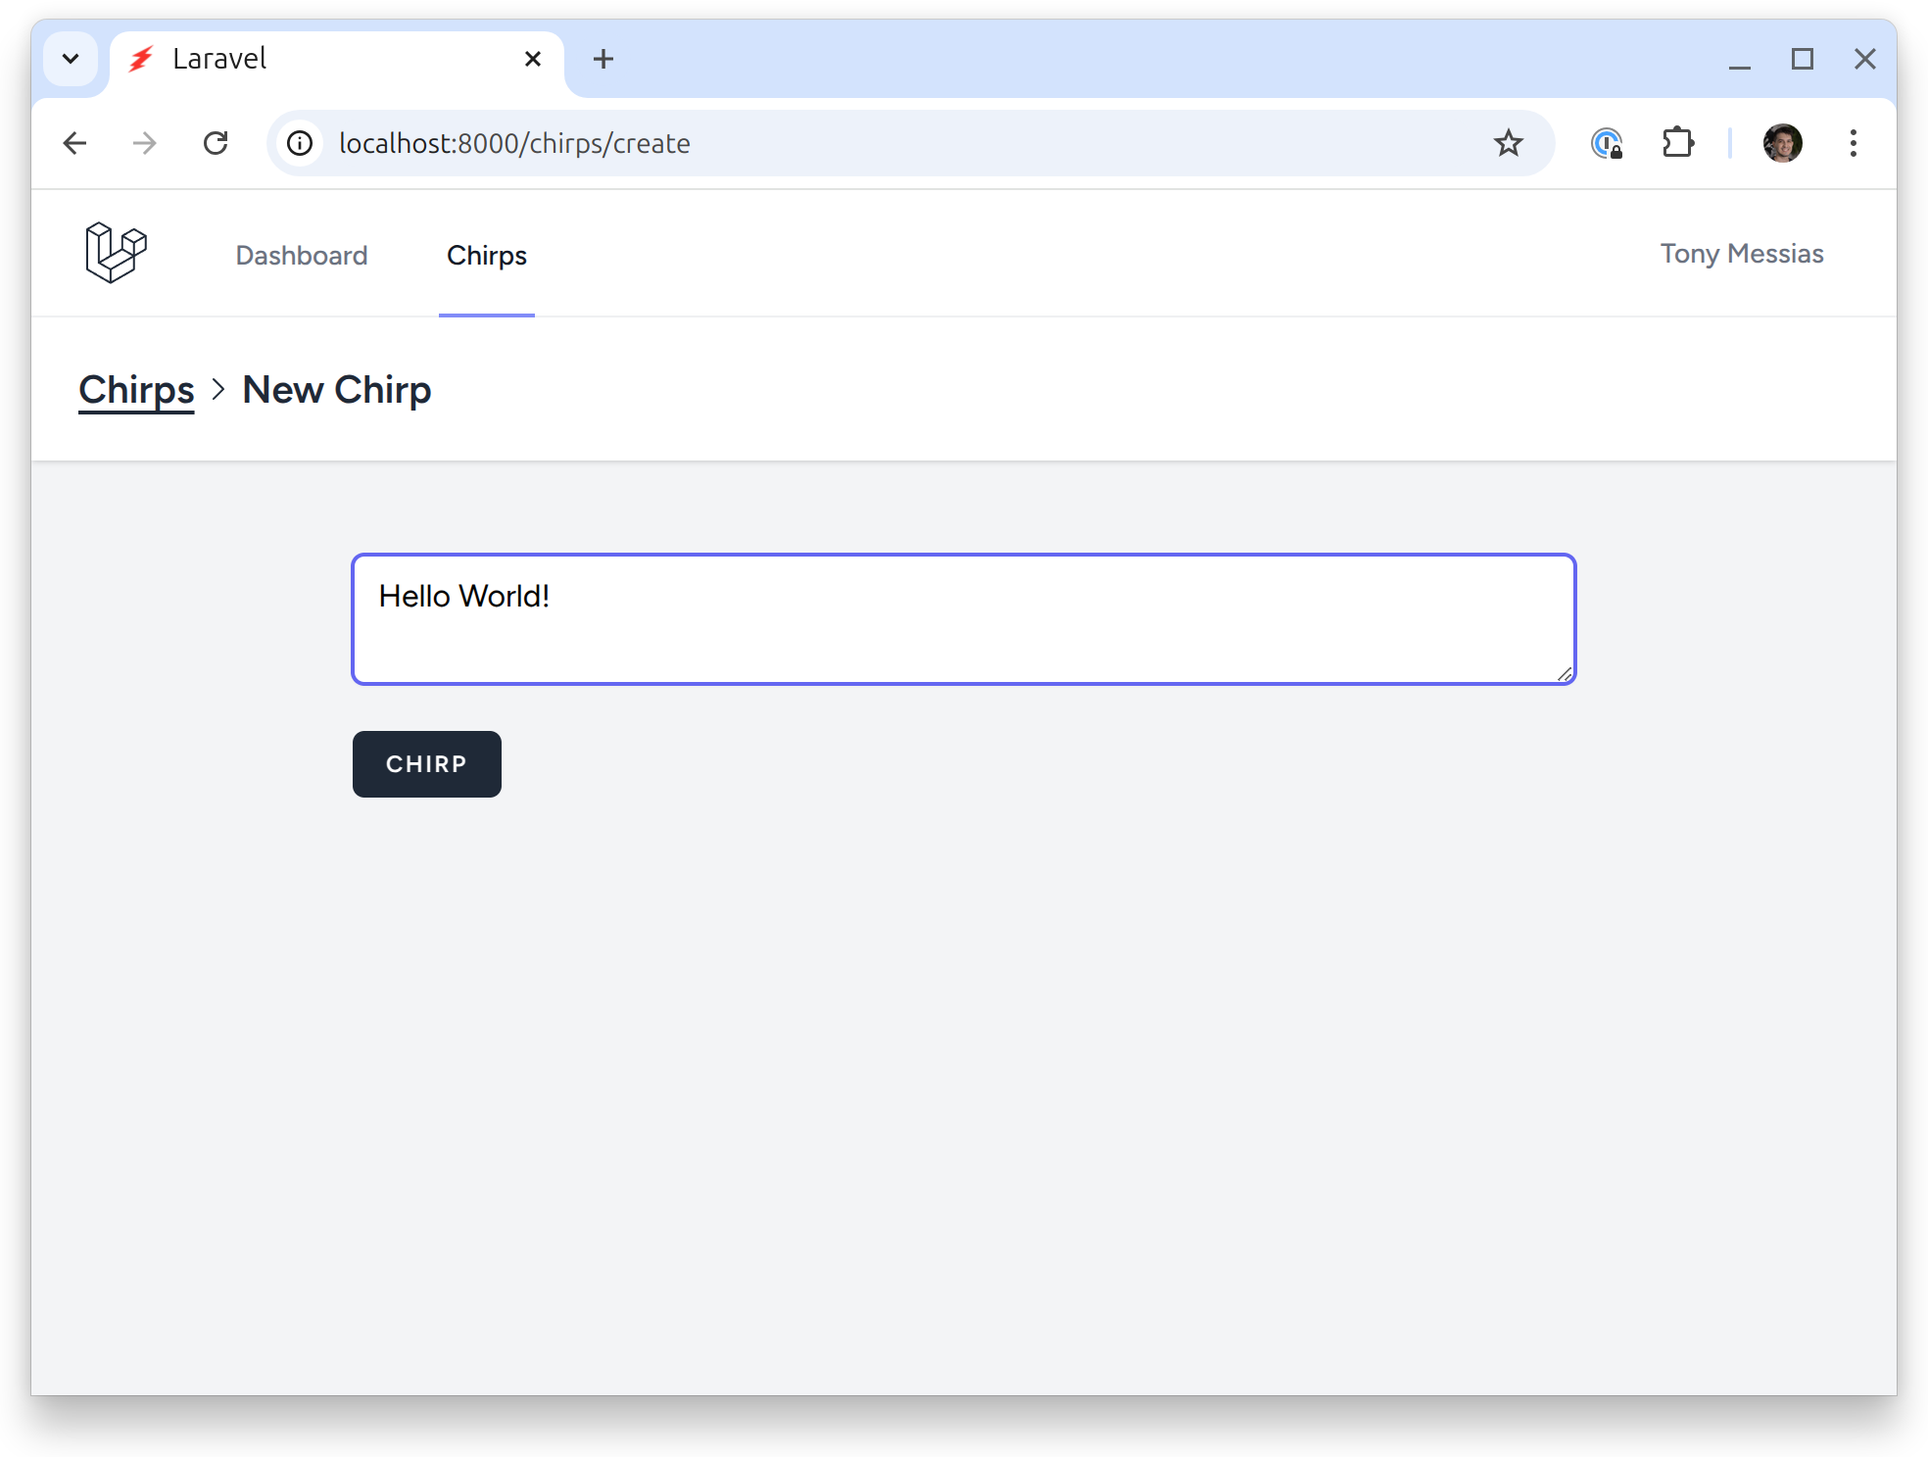
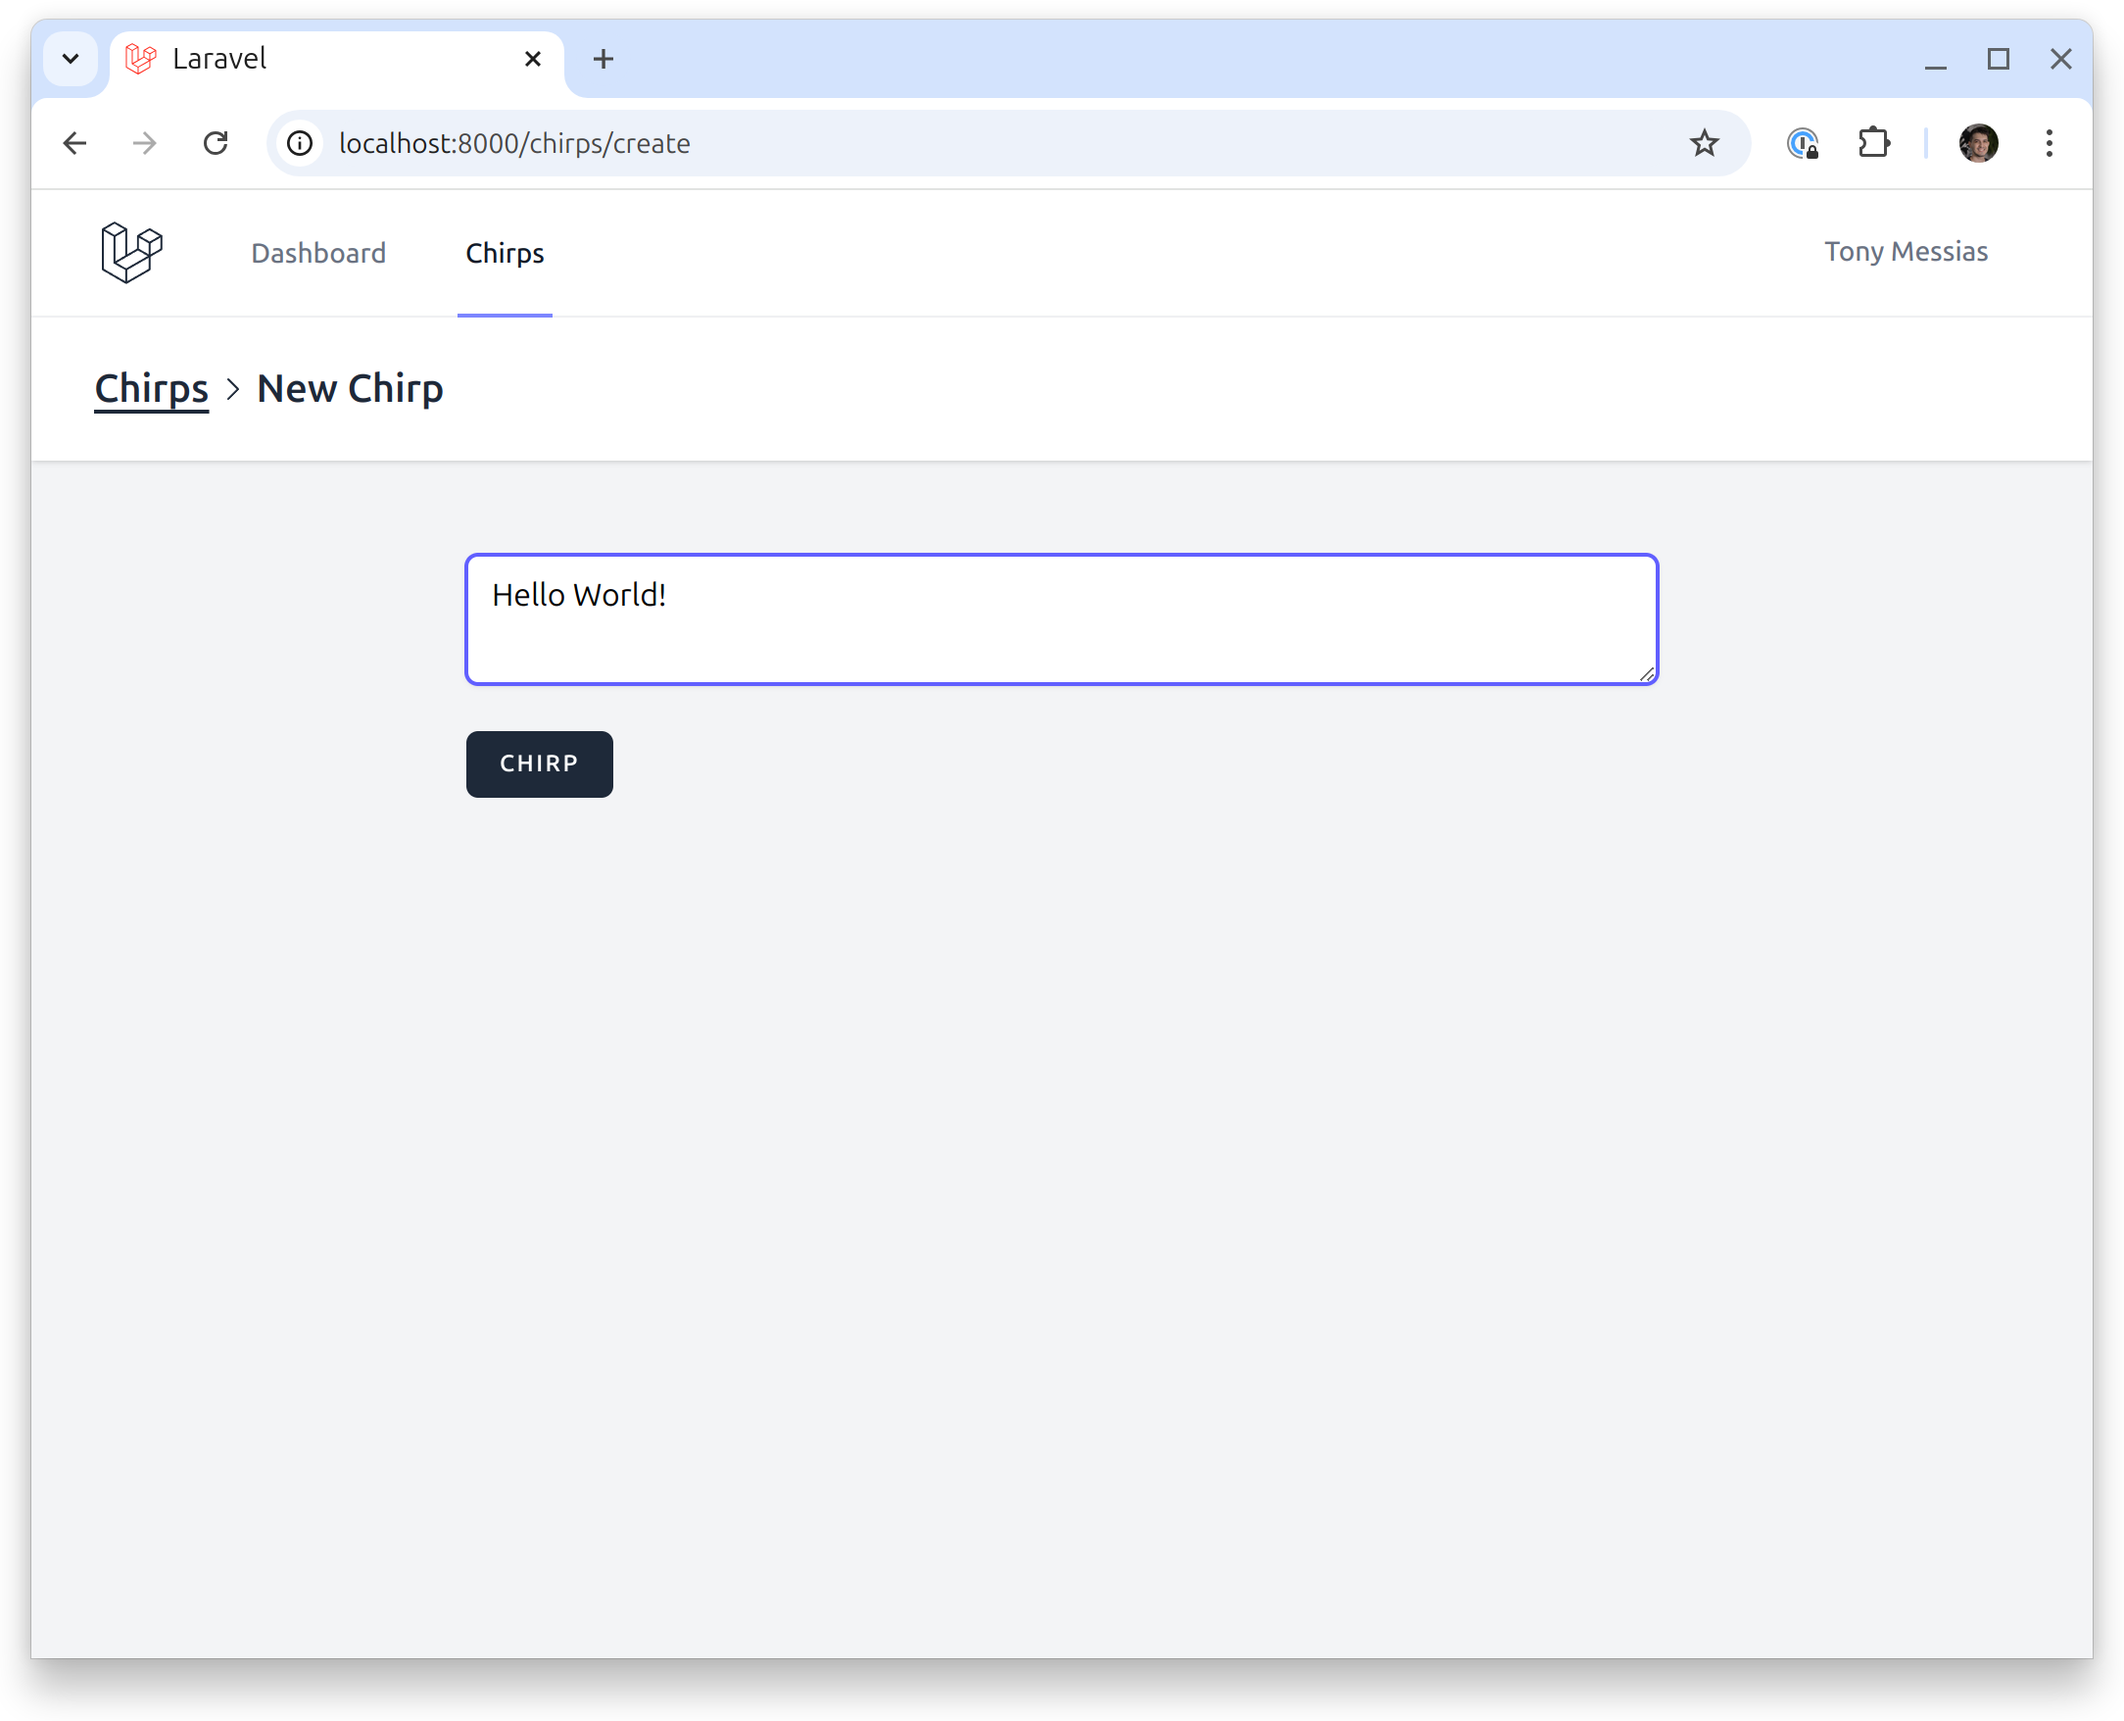
Update images

diff --git a/source/_bootcamp/installation.md b/source/_bootcamp/installation.md
@@ -27,7 +27,7 @@ php artisan serve
 
 Once you have started the Artisan development server, your application will be accessible in your web browser at [http://localhost:8000](http://localhost:8000).
 
-![Laravel Welcome page](/assets/images/bootcamp/laravel-welcome.png?v=3)
+![Laravel Welcome page](/assets/images/bootcamp/laravel-welcome.png?v=4)
 
 By default, the Laravel app will be created using SQLite.
 
@@ -49,15 +49,15 @@ Turbo Breeze will install and configure your front-end dependencies for you. It 
 
 The welcome page should now have the Login and Register links at the top:
 
-![Welcome with Auth](/assets/images/bootcamp/install-welcome-auth.png?v=3)
+![Welcome with Auth](/assets/images/bootcamp/install-welcome-auth.png?v=4)
 
 And you should be able to head to the `/register` route and create your own account:
 
-![Register Page](/assets/images/bootcamp/install-register.png?v=3)
+![Register Page](/assets/images/bootcamp/install-register.png?v=4)
 
 Then, you should be redirected to the Dashboard page:
 
-![Dashboard Page](/assets/images/bootcamp/install-dashboard.png?v=3)
+![Dashboard Page](/assets/images/bootcamp/install-dashboard.png?v=4)
 
 This Dashboard page is protected by Laravel's auth middleware, so only authenticated users can access it. The registration process automatically authenticates us.
 
@@ -65,7 +65,7 @@ Turbo Breeze is a fork of Laravel Breeze, but customized to work better in a Hot
 
 There are a couple differences between Turbo Breeze and Laravel Breeze. In Laravel Breeze, your name at the top of the navigation bar is a dropdown. In Turbo Breeze, it's a link to a page with the menu:
 
-![Profile Menu](/assets/images/bootcamp/profile-menu.png?v=3)
+![Profile Menu](/assets/images/bootcamp/profile-menu.png?v=4)
 
 In Laravel Breeze, all the profile forms are rendered in the same page. In Turbo Breeze, each one has its own dedicated page. That's not a requirement for Hotwired apps, but it works best in a mobile context. We'll see more about that later in this bootcamp.
 

diff --git a/source/_bootcamp/creating-chirps.md b/source/_bootcamp/creating-chirps.md
@@ -242,11 +242,11 @@ This partial is making use a Blade component that doesn't exist yet called `x-te
 
 That's it! Refresh the page in your browser to see your new form rendered in the default layout provided by Breeze!
 
-![Creating Chirps Link](/assets/images/bootcamp/creating-chirps-link.png?v=3)
+![Creating Chirps Link](/assets/images/bootcamp/creating-chirps-link.png?v=4)
 
 If you click on that link, you will see the form to create Chirps and the breadcrumbs should also have been updated:
 
-![Creating Chirps Form](/assets/images/bootcamp/creating-chirps-form.png?v=3)
+![Creating Chirps Form](/assets/images/bootcamp/creating-chirps-form.png?v=4)
 
 ### Navigation menu
 
@@ -294,7 +294,7 @@ Don't forget the responsive menu:
 
 We should see the Chirps link on the page nav now:
 
-![Chirps Nav Link](/assets/images/bootcamp/creating-chirps-nav-link.png?v=3)
+![Chirps Nav Link](/assets/images/bootcamp/creating-chirps-nav-link.png?v=4)
 
 ## Saving the Chirp
 
@@ -437,7 +437,7 @@ Each database migration will only be run once. To make additional changes to a t
 
 We're now ready to send a Chirp using the form we just created! We won't be able to see the result yet because we haven't displayed existing Chirps on the page.
 
-![Saving Chirps](/assets/images/bootcamp/creating-chirps-saving.png?v=3)
+![Saving Chirps](/assets/images/bootcamp/creating-chirps-saving.png?v=4)
 
 If you leave the message field empty, or enter more than 255 characters, then you'll see the validation in action.
 
@@ -567,4 +567,4 @@ php artisan tailwindcss:build
 
 If you create another Chirp now, you should see a nice notification message at the top:
 
-![Flash Messages](/assets/images/bootcamp/creating-chirps-flash-messages.png?v=3)
+![Flash Messages](/assets/images/bootcamp/creating-chirps-flash-messages.png?v=4)

diff --git a/source/_bootcamp/hotwiring-everything.md b/source/_bootcamp/hotwiring-everything.md
@@ -177,7 +177,7 @@ class AppServiceProvider extends ServiceProvider
 
 Now if you try creating a Chirp, you should see the newly created Chirp at the top of the chirps list, the form should have been cleared, and a flash message showed up.
 
-![Hotwiring Chirps Creationg](/assets/images/bootcamp/hotwiring-creating-chirps.png?v=3)
+![Hotwiring Chirps Creationg](/assets/images/bootcamp/hotwiring-creating-chirps.png?v=4)
 
 Let's also implement inline editing for our chirps.
 
@@ -277,7 +277,7 @@ class ChirpController extends Controller
 
 Now, if you try editing a chirp, you should see the same thing as before, but now we're sure that our chirp will just be updated no matter if it's present in the index listing of chirps or not after the form is submitted. Yay!
 
-![Hotwiring Editing Chirps](/assets/images/bootcamp/hotwiring-editing-chirp.png?v=3)
+![Hotwiring Editing Chirps](/assets/images/bootcamp/hotwiring-editing-chirp.png?v=4)
 
 ## Deleting Chirps with Turbo Streams
 
@@ -447,4 +447,4 @@ Although this is using Macros, we're still using the Turbo Stream actions that s
 
 With these changes, our application behaves so much better than before! Try it out yourself!
 
-![Inline Editing Forms](/assets/images/bootcamp/hotwiring-chirps-inline-forms.png?v=3)
+![Inline Editing Forms](/assets/images/bootcamp/hotwiring-chirps-inline-forms.png?v=4)

diff --git a/source/_bootcamp/broadcasting.md b/source/_bootcamp/broadcasting.md
@@ -584,7 +584,7 @@ App\Models\User::first()->chirps()->create(['message' => 'Hello from Tinker!'])
 # }
 ```
 
-![Broadcasting from Tinker](/assets/images/bootcamp/broadcasting-tinker.png?v=4)
+![Broadcasting from Tinker](/assets/images/bootcamp/broadcasting-tinker.png?v=5)
 
 ### Extra Credit: Fixing The Missing Dropdowns
 
@@ -730,7 +730,7 @@ Next, we need to tweak our `dropdown.blade.php` Blade component to accept and me
 
 Now, if you try creating another user and test this out, you'll see that the dropdown only shows up for the creator of the Chirp!
 
-![Dropdown only shows up for creator](/assets/images/bootcamp/broadcasting-dropdown-fix.png?v=4)
+![Dropdown only shows up for creator](/assets/images/bootcamp/broadcasting-dropdown-fix.png?v=6)
 
 This change also makes our entire `chirps/partials/chirp.blade.php` partial cacheable! We could cache it and only render that when changes are made to the Chirp model using the Chirp's `updated_at` timestamps, for example.
 

diff --git a/source/_bootcamp/editing-chirps.md b/source/_bootcamp/editing-chirps.md
@@ -218,7 +218,7 @@ class ChirpPolicy
 
 You should be able to use the dropdown, click on the Edit link and view the edit Chirp form:
 
-![Edit Chirp Form](/assets/images/bootcamp/editing-chirps-form.png?v=3)
+![Edit Chirp Form](/assets/images/bootcamp/editing-chirps-form.png?v=4)
 
 ## Updating Chirps
 
@@ -265,4 +265,4 @@ You may have noticed the validation rules are duplicated with the `store` action
 
 Time to test it out! Go ahead and edit a few Chirps using the dropdown menu. If you register another user account, you'll see that only the author of a Chirp can edit it.
 
-![Changed Chirps](/assets/images/bootcamp/editing-chirps-changed.png?v=3)
+![Changed Chirps](/assets/images/bootcamp/editing-chirps-changed.png?v=4)

diff --git a/source/_bootcamp/listing-chirps.md b/source/_bootcamp/listing-chirps.md
@@ -127,7 +127,7 @@ Finally, let's create a `chirps.partials.chirp` Blade partial to display Chirp. 
 
 Now take a look in your browser to see the message you Chirped earlier!
 
-![Showing Chirps](/assets/images/bootcamp/showing-chirps.png?v=3)
+![Showing Chirps](/assets/images/bootcamp/showing-chirps.png?v=4)
 
 ## Extra Credit: Relative Dates
 

diff --git a/source/_bootcamp/deleting-chirps.md b/source/_bootcamp/deleting-chirps.md
@@ -157,4 +157,4 @@ Finally, we can add a delete button to the dropdown menu we created earlier in o
 
 If you Chirped anything you weren't happy with, try deleting it!
 
-![Deleting Chirps](/assets/images/bootcamp/deleting-chirps.png?v=3)
+![Deleting Chirps](/assets/images/bootcamp/deleting-chirps.png?v=4)
